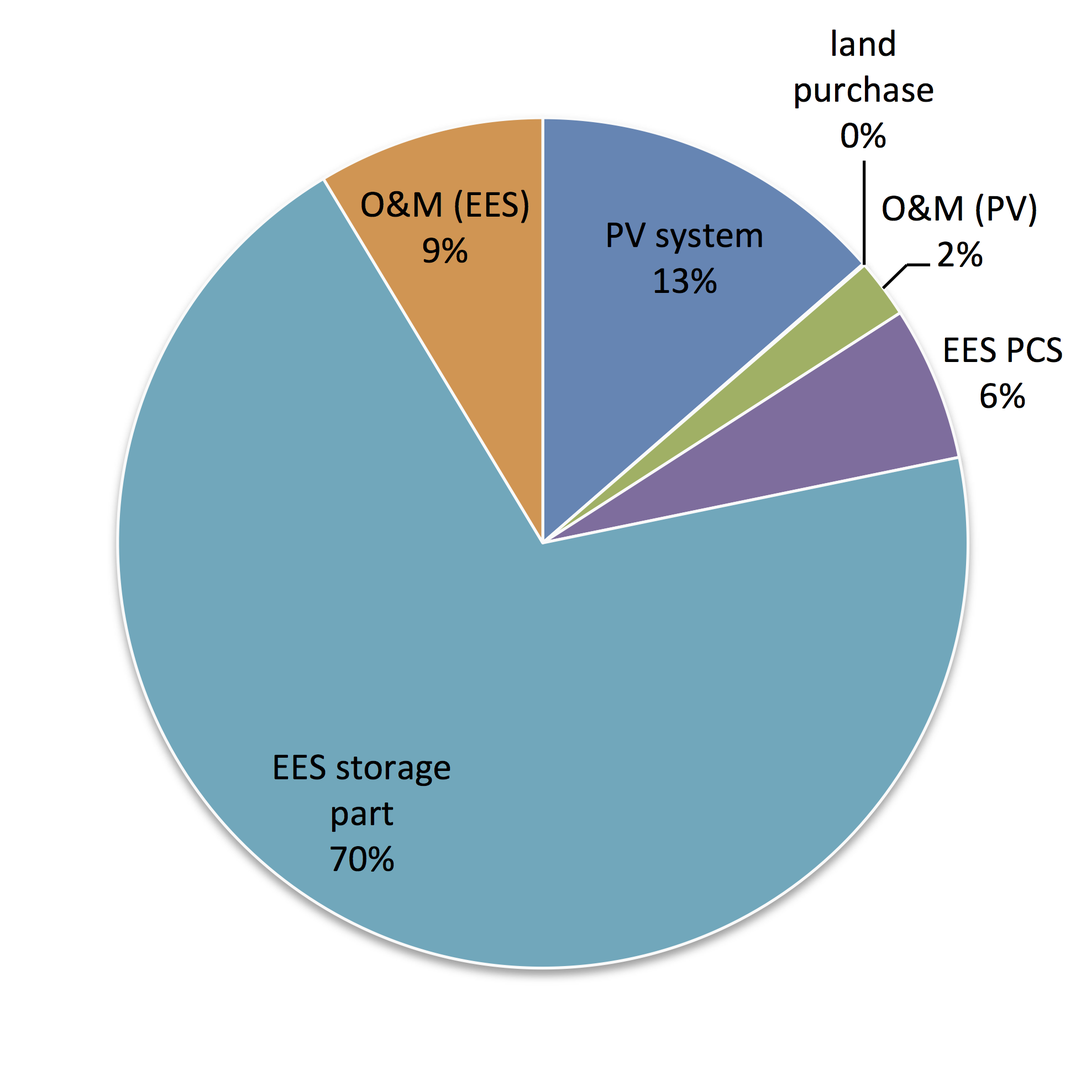
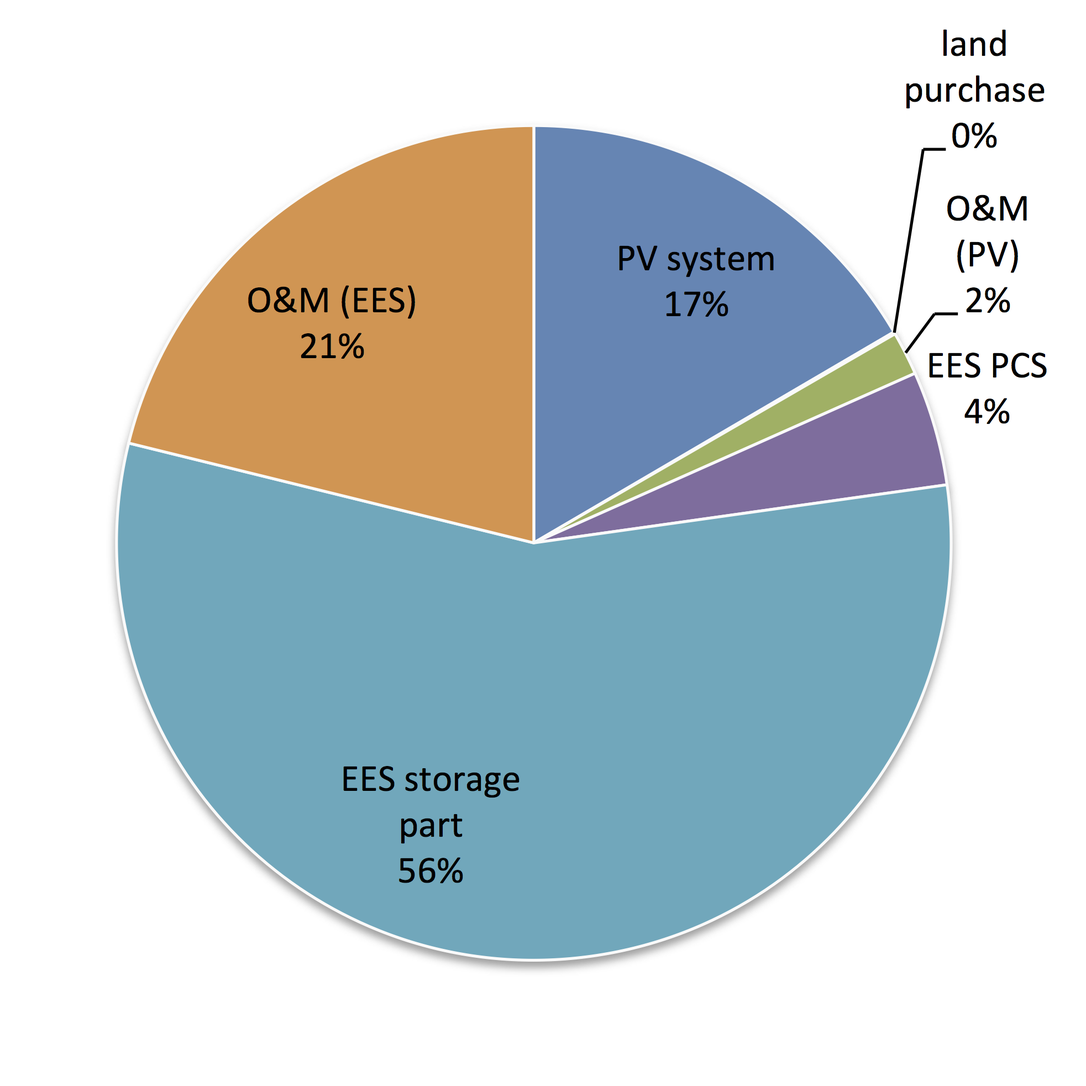
Zwischen sichern

Changed region(s): [[0.1242, 0.031, 0.9934, 0.9003], [0.2483, 0.683, 0.4967, 0.8071], [0.2173, 0.7761, 0.2483, 0.8071]]

diff --git a/PVsimulation.tex b/PVsimulation.tex
@@ -180,7 +180,7 @@ Further is to note that Li-Ion batteries has a expiry period \cite{Jossen2006}. 
 
 
 
-The for a long lifetime an average SOC of 30-70~\% is recommended for Li-Ion batteries \cite{Jossen2006}. Consequently the SOC was set to a maximum of 30~\% and a minimum of 70~\% for the simulation. So a total DOD of 40~\% which signified 40~\% of the nominal battery capacity was assumed as usable. In order to have high storage availability over the total system lifetime it was assumed that the battery bank will replaced at a effective capacity loss of 20~\%. This is also advised for EES in electronic consumer devices \cite{Spotnitz2003}. Resulting from this assumptions the cycle lifetime of the cells in the battery bank is 2~500 cycles. Therefore the battery bank needs to be replaced after 6-\SI{7}{years}. So the battery bank needs to be replaced three times in the total lifetime of the system. 
+The for a long lifetime an average SOC of \SIrange{30}{70}{\percent} is recommended for li-ion batteries \cite{Jossen2006}. Consequently the SOC was set to a maximum of \SI{30}{\percent} and a minimum of \SI{70}{\percent} for the simulation. So a total DOD of \SI{40}{\percent} which signified \SI{40}{\percent} of the nominal battery capacity was assumed as usable. In order to have high storage availability over the total system lifetime it was assumed that the battery bank will replaced at a effective capacity loss of \SIrange{20}{25}{\percent}. This is also advised for EES in electronic consumer devices \cite{Spotnitz2003}. Resulting from this assumptions the cycle lifetime of the cells in the battery bank is 2~500 to 3~200 cycles. Therefore the battery bank needs to be replaced after \SIrange{6}{9}{years}. So the battery bank needs to be replaced two to three times in the total lifetime of the system. For the calculation two battery bank replacements was assumed. 
 
 
 
@@ -218,19 +218,19 @@ The financial parameter for the LCOE calculation are composed in Table~\ref{tbl:
 
 The specific large-scale PV system costs in South Africa  amount to \SI{1.285}{USD/W}\textsubscript{p} (\SI{14.5}{ZAR/W}\textsubscript{p} using \SI{11.286}{USD/ZAR} average in 2014 \cite{IRS2015}) which leads from an in 2014 actually built PV system \cite{Terblanche2015}. These specific costs are close to utility-scale PV systems in Europe with specific investments of \SI{1}{EUR/W}\textsubscript{p} \cite{FraunhoferISE2013}, corresponding to \SI{1.33}{USD/W}\textsubscript{p} (using the average exchange rate in 2014 of \SI{1.33}{USD/EUR}  \cite{StatistaGmbH2015}).
 
-The LCOE was calculated with different interest rates and O\&M costs for the PV power plant and the EES system. The real interest rate for the PV power plant was amused with 2.8~\% \cite{FraunhoferISE2013} and the annual O\&M costs are 1~\%  of the PV investment costs \cite{IEA2014a}. A degradation of 1~\% per year of the annual energy output was assumed for the ageing phenomena of the PV cells \cite{Tidball2010}.
+The LCOE was calculated with different interest rates and O\&M costs for the PV power plant and the EES system. The annual O\&M costs for the PV system are \SI{1}{\percent}  of the PV investment costs \cite{IEA2014a}. A degradation of \SI{1}{\percent} per year of the annual energy output was assumed for the ageing phenomena of the PV cells \cite{Tidball2010}.
 
 The storage costs are calculates from three  parts. The costs for the PCS, the battery bank and the replacement costs of the battery bank during the lifetime of the system.
 
-The costs of the PCS of \SI{615}{USD/kW} (\SI{463}{EUR/kW} using the average exchange rate in 2014 of 1.33 USD/EUR \cite{StatistaGmbH2015}) was taken over from a study toward comparative life cycle cost analysis of EES \cite{Zakeri2015}. This is the average value of  a wide cost range (250-600€/kW) of PCS for Li-Ion EES systems.
+The costs of the PCS of \SI{615}{USD/kW} (\SI{463}{EUR/kW} using the average exchange rate in 2014 of 1.33 USD/EUR \cite{StatistaGmbH2015}) was taken over from a study toward comparative life cycle cost analysis of EES \cite{Zakeri2015}. This is the average value of  a wide cost range (250-600€/kW) of PCS for li-ion based EES systems.
 
 For the storage part of the EES a highly optimistic value of \SI{300}{USD/kWh} was assumed from \cite{Nykvist2015}. The average storage part cost for Li-Ion EES in other studies is \SI{914}{USD/kWh} \cite{Zakeri2015}.
 
-For the replacement costs of the an other highly optimistic value of \SI{150}{USD/kWh} was assumed. The cost for the replacement of the storage in \cite{Zakeri2015} are approximately the half of the storage costs. This costs was also assumed with a look to Figure~\ref{CostofLi-ion} on Page~\pageref{CostofLi-ion}.
+The cost for the replacement of the storage in \cite{Zakeri2015} are approximately the half of the storage costs. Therefore is the replacement costs decreasing not that intense and was assumed with \SI{250}{USD/kWh}.
 
 The assumed EES battery bank replacements during the lifetime was described in this Chapter already.
 
-The annual O\&M costs of \SI{9.18}{USD/kW} was also a adaption from \cite{Zakeri2015} as well as the real interest rate of 8.0~\%.
+The annual O\&M costs of \SI{3}{\percent} of the was adapted from the IEA. \cite{IEA2014c}
 
 As before for the other solar power plants also for the PV system was land purchase costs of 3~000USD/ha \cite{Cassell2012} assumed.
 \pagebreak
@@ -251,14 +251,14 @@ Sub-Station & $c_{ss}$ & 0.071 & USD/W\textsubscript{p} &\cite{Terblanche2015} \
 Total PV system costs & $c_{PV}$ & 1.285 &  USD/W\textsubscript{p} &\cite{Terblanche2015} \\ 
 Annual degradation factor &$f_{degrad}$ & 1 & \% & \cite{Tidball2010}\\ 
 Annual PV O\&M costs factor &$f_{O\&M,PV}$ & 1 & \% & \cite{IEA2014a}\\
-Interest rate of PV & $i_{PV}$& 2.8 & \% & \cite{FraunhoferISE2013} \\ 
+WACC rate & $i_{WACC}$ & 8.0 & \si{\percent} & assumption from Section~\ref{section WACC} \\ 
 Annual insurance costs & $f_{ins,PV}$ & 0.5 & \% & \cite{InternationalFinanceCorporation2015}\\ \hline
 EES PCS costs & $c_{EES,PCS}$ & 615 & USD/kW & \cite{Zakeri2015} \\ 
 EES battery bank costs & $c_{EES,BBC}$ &300 & USD/kWh & \cite{Nykvist2015} \\ 
-EES battery bank replacement costs & $c_{EES,BBRC}$ & 150 & USD/kWh & \cite{Zakeri2015} \\ 
-Assumed EES battery bank replacements during lifetime & $n_{BBR}$ & 3 & - & - \\ 
-Annual EES O\&M costs & $c_{O\&M,EES}$ & 9.18 & USD/kW & \cite{Zakeri2015}\\
-Interest rate of EES & $i_{EES}$& 8.0 & \% & \cite{Zakeri2015} \\
+EES battery bank replacement costs & $c_{EES,BBRC}$ & 250 & USD/kWh & assumption \\ 
+Assumed EES battery bank replacements during lifetime & $n_{BBR}$ & 2 & - & assumption \\ 
+Annual EES O\&M costs & $c_{O\&M,EES}$ & 3 & \% & \cite{IEA2014c}\\
+WACC rate & $i_{WACC}$ & 8.0 & \si{\percent} & assumption from Section~\ref{section WACC} \\ 
 Annual insurance costs& $f_{ins,EES}$ & 0.5 & \% & \cite{Cutter2014}\\ \hline
 Land purchase &$c_{LP}$ & 3~000.00 & USD/ha & \cite{Cassell2012} \\ 
 \hline
@@ -303,7 +303,7 @@ The LCOE was calculated taking into account of 1~\% annual degradation of the PV
 \textbf{Item} & \textbf{Value} & \textbf{Unit} \\ \hline \hline
 First year energy & 233.69 & GWh \\ 
 Load covering &  32.9 & \% \\ 
-LCOE result & 50.81 & USD/MWh \\
+LCOE result & 77.61 & USD/MWh \\
 \hline
 \end{tabular}
 \caption[Summary of the results of the simulated PV system without EES.]{Summary of the results of the simulated PV system without EES.}\label{tbl: PVwithoutEESresult}
@@ -359,7 +359,7 @@ The from the energy output derived load curve covering results of the simulated 
 \subsubsection{Levelized costs of electricity}
 The LCOE was calculated by using the finacial input parameter from Table~\ref{tbl: PVFinance} and a simplified method which is documented in Appendix~\ref{ChapterLCOE} on Page \pageref{ChapterLCOE}. It must be noted, that the calculation is based on the simulation result for the first year PV power plant results under consulting of a degradation factor for the PV system, but not for the EES. The results of the LCOE claculation for the simulated PV power plant configurations can be seen in Figure~\ref{PV_LCOE}. 
 
-The lowest LCOE result of \SI{251.83}{USD/MWh} is reached at a PVM of 2.2 and the lowest EES configuration and is marginal lower than  \SI{252.42}{USD/MWh} at a PVM of 2.4 with the same EES configuration. Generally must be said that there are no overlaps of LCOE lines in this chart and the spacing leads from the EES system costs.
+The lowest LCOE result of \SI{336.34}{USD/MWh} is reached at a PVM of 2.2 using the lowest simulated EES configuration and is marginal lower than  \SI{338.02}{USD/MWh} at a PVM of 2.4 with the same EES configuration. Generally must be said that there are no overlaps of LCOE lines in this chart and the spacing leads from the EES system costs.
 
 \begin{figure}[htbp]  
 \centering
@@ -383,7 +383,7 @@ The EES systems costs share makes the main part of the LCOE cost of the simulate
         \end{subfigure}
         \caption[Break-down of selected LCOE calculation  results of PV systems with adapted EES.]{Break-down of selected LCOE calculation results of PV systems with adapted EES.}\label{SMPV_LCOE_BreakDown}
 \end{figure}
-Comprising the results of the LCOE calculation and associated load curve covering results shows that for covering 90\% of the predicted load the configuration of PVM 2.8 and \SI{7}{h} of EES reaching the lowest LCOE of \SI{315.39}{USD/MWh}. But the configuration owns an high value of surplus output of about 5.5~\% (see Figure~\ref{PV_energy_output}). The configuration PVM 2.6 reaches also the 90~\% load curve covering with a share of just 2.1~\% surplus output and a LCOE of \SI{322.18}{USD/MWh}.
+Comprising the results of the LCOE calculation and associated load curve covering results shows that for covering 90\% of the predicted load the configuration of PVM 2.8 and \SI{7}{h} of EES reaching the lowest LCOE of \SI{417.57}{USD/MWh}. But the configuration owns an high value of surplus output of about 5.5~\% (see Figure~\ref{PV_energy_output}). The configuration PVM 2.6 reaches also the 90~\% load curve covering with a share of just 2.1~\% surplus output and a LCOE of \SI{425.75}{USD/MWh}.
 
-The lowest LCOE for reaching 80~\% of the prescribed load is \SI{275.18}{USD/MWh} using \SI{5}{h} of EES and also a PVM of 2.6. For reaching 70~\% the 2.2 and \SI{4}{h} of EES reaches the lowest LCOE of \SI{251.83}{USD/MWh}.
+The lowest LCOE for reaching 80~\% of the prescribed load is \SI{366.94}{USD/MWh} using \SI{5}{h} of EES and also a PVM of 2.6. For reaching 70~\% the 2.2 and \SI{4}{h} of EES reaches the lowest LCOE of \SI{336.34}{USD/MWh}.
 \pagebreak

diff --git a/CRsimulation.tex b/CRsimulation.tex
@@ -165,7 +165,7 @@ Storage volume  & \si{\cubed\metre} & 10~229 & 12~787 & 15~345 & 17~902 & 20~460
 \caption[CR system TES parameter.]{CR system TES parameter.}\label{tbl: CRTES}
 \end{table}
 
-SAM 2015.6.30 r3 don't have a power control to follow prescribed hourly net output values. The turbine output of each day needs to be scheduled in front for the simulation. Thereby the parasitic consumer needs highly attention. Figure~\ref{CR_turbineoutput} shows the for the simulation scheduled turbine output matrix. The individual values was fixed during experimental trial. It can be seen that the turbine output is reduced to 50\% during the night as it is specified in the scenario. The power plant follows the schedule till there is no solar irradiance and no more thermal capacity in the storage left to generate power. 
+SAM 2015.6.30 r3 don't have a power control to follow prescribed hourly net output values. The turbine output of each day needs to be scheduled in front for the simulation. Thereby the parasitic consumer needs highly attention. Figure~\ref{CR_turbineoutput} shows the for the simulation scheduled turbine output matrix. The individual values was fixed during experimental trial. It can be seen that the turbine output is reduced to \SI{50}{\percent} during the night as it is specified in the scenario. The power plant follows the schedule till there is no solar irradiance and no more thermal capacity in the storage left to generate power. 
 \begin{figure}[htbp]  
 \centering
 \includegraphics[width=0.95\linewidth]{FIG/CR_turbineoutput}
@@ -173,7 +173,7 @@ SAM 2015.6.30 r3 don't have a power control to follow prescribed hourly net outp
 \end{figure}
 \pagebreak
 \subsubsection{Financial parameter}
-The financial parameter for the LCOE calculation of the CR power plant are seperated in different specific cost parts and are sumerized in Table~\ref{tbl: CRFinance}. The method for calculating the LCOE is documented in Appendix~\ref{ChapterLCOE} on Page \pageref{ChapterLCOE} using a lifetime of \SI{25}{years} and a real interest rate of 7.5~\% \cite{FraunhoferISE2013}. The interest rate could be reduced with a rising market potential.
+The financial parameter for the LCOE calculation of the CR power plant are seperated in different specific cost parts and are sumerized in Table~\ref{tbl: CRFinance}. The method for calculating the LCOE is documented in Appendix~\ref{ChapterLCOE} on Page \pageref{ChapterLCOE} using a lifetime of \SI{25}{years}.
 
 
 
@@ -185,9 +185,9 @@ The remaining investment costs are based on the "Power Tower Technology Roadmap 
 
 On top of the investment costs a came 15 \% once-off surcharge for EPC and contingencies \cite{Platzer2014}.
 
-Fichtner analyzed the annual O\&M costs with 1.84-1.96~\% of the total investment costs for CR power plants in SA \cite{Fichtner2010}. The value of 2~\% can so also be assumed as conservative.
+Fichtner analyzed the annual O\&M costs with 1.84-1.96~\% of the total investment costs for CR power plants in SA \cite{Fichtner2010}. The value of \SI{2}{\percent} can so also be assumed as conservative.
 
-The costs for the land purchase comes from the "African Agriculture Review" report of the Nedbank Capital, which reported the prices for farmland in SA. For the LCOE calculation of the CSP and PV system was the land purchase costs of 3~\SI{000}{USD/ha} assumed which is based on these report \cite{Cassell2012}.
+The costs for the land purchase comes from the "African Agriculture Review" report of the Nedbank Capital, which reported the prices for farmland in SA. For the LCOE calculation of the CSP and PV system was the land purchase costs of \SI{3000}{USD/ha} assumed which is based on these report \cite{Cassell2012}.
 
 \begin{table}[!h]  
   \centering
@@ -201,7 +201,7 @@ Tower and receiver& $c_{T+R}$& 200 & \si{\usd\per\kilo\wattth} & \cite{Kolb2011}
 Annual O\&M & $f_{O\&M,CR}$ & 2 & \si{\percent} &\cite{Fichtner2010}\\
 Land purchase& $c_{LP}$ & 3~000 & \si{\usd\per\hectare} & \cite{Cassell2012}\\ \hline
 Lifetime & $n$ & 25 & years & \cite{FraunhoferISE2013} \\ 
-Interest rate & $i_{CR}$ & 7.5 & \si{\percent} & \cite{FraunhoferISE2013} \\ 
+WACC rate & $i_{WACC}$ & 8.0 & \si{\percent} & assumption from Section~\ref{section WACC} \\ 
 Annual insurance costs& $f_{ins,CR}$ & 0.5 & \si{\percent} & \cite{IRENA2012}\\
 Surcharge for EPC, project management and risk & $f_{EPC,CR}$& 15 & \si{\percent} & \cite{Platzer2014} \\
 Total plant availability & $f_{avail,plant,CR}$ & 96 & \si{\percent} & \cite{Morin2012} \\ 
@@ -267,16 +267,18 @@ Figure~\ref{CR_LCCF} summarizes the results of the load curve covering for all s
 \includegraphics[width=1\linewidth]{FIG/CR_LCCF}
 \caption[Load curve covering result of simulated CR systems.]{Load curve covering result of simulated CR systems.}\label{CR_LCCF}
 \end{figure}
-The results of the load curve covering shows that there is no appreciable difference between the 12, 14 and \SI{16}{h} of TES. At a SM of 3.5 the difference is just 1.4~\% load curve covering between 12 and \SI{16}{h} of TES. There is just a addition of 0.6~\% for the \SI{8}{h} TES and the SM 3.0 to 3.5 configurations. 
+The results of the load curve covering shows that there is no appreciable difference between the \SIlist{12;14;16}{h} of TES. At a SM of 3.5 the difference is just \SI{1.4}{\percent} load curve covering between \SIlist{12;16}{h} of TES. There is just a addition of \SI{0.6}{\percent} for the \SI{8}{h} TES and the SM 3.0 to 3.5 configurations.
+ 
 \subsubsection{Levelized costs of electricity}
-The results of the LCOE claculation for the simulated CR configurations can be seen in Figure~\ref{CR_LCOE}. They are calculated using the finacial input parameter in Table~\ref{tbl: CRFinance} and a simplified method which is documented in Appendix~\ref{ChapterLCOE} on Page \pageref{ChapterLCOE}.
+The results of the calculation shows that the lowest LCOE of \SI{142.31}{USD/MWh} is reached at a SM of 2.0 and \SI{10}{h} of TES and is just  marginal cheaper then using \SI{8}{h} of TES with a LCOE of \SI{143.04}{USD/MWh}. The LCOE addition from SM 2.0 to 2.5 is goes minimal up to \SI{138.25}{USD/MWh} for \SI{10}{h} of TES. The highest LCOE result of the simulated configurations is \SI{185.20}{USD/MWh} at a SM of 3.5 and \SI{8}{h} of TES. 
 
 \begin{figure}[htbp]  
 \centering
 \includegraphics[width=1\linewidth]{FIG/CR_LCOE}
 \caption[LCOE calculation results for CR simulation.]{LCOE calculation results for CR simulation.}\label{CR_LCOE}
 \end{figure}
-The results of the calculation shows that the lowest LCOE of \SI{137.55}{USD/MWh} is reached at a SM of 2.0 and \SI{10}{h} of TES and is just  marginal cheaper then using \SI{8}{h} of TES with a LCOE of \SI{137.63}{USD/MWh}. The LCOE addition from SM 2.0 to 2.5 is goes minimal up to \SI{138.25}{USD/MWh} for \SI{10}{h} of TES. The highest LCOE result of the simulated configurations is \SI{179.00}{USD/MWh} at a SM of 3.5 and \SI{8}{h} of TES. 
+
+The results of the LCOE claculation for the simulated CR configurations can be seen in Figure~\ref{CR_LCOE}. They are calculated using the finacial input parameter in Table~\ref{tbl: CRFinance} and a simplified method which is documented in Appendix~\ref{ChapterLCOE} on Page \pageref{ChapterLCOE}. 
 
 The behavior of the 12, 14 and \SI{16}{h} of TES results for all SM of the LCOE is almost identical. Just the individual value is differently.
 
@@ -297,8 +299,8 @@ The behavior of the 12, 14 and \SI{16}{h} of TES results for all SM of the LCOE 
 \end{figure}
 The calculated LCOEs of the simulated CR power plants is composed by seven cost parts. The investment costs of power block, tower and receiver, heliostat field, land purchase, TES, additional EPC, project management (PM) and risk as well as the annual costs for operation and maintain (O\&M). The brake-down of the LCOE components can be seen in Figure~\ref{CR_LCOE_BreakDown} for the simulation of the lowest and the highest configuration.  It can be seen that the investment costs of the land purchase don't have any influence to the LCOE of the simulated CR configurations. Also the share of the EPC, PM and risk as well as the share of O\&M don't varies much.
 
-When comprising the results of the load curve covering with the LCOE calculation the lowest LCOE for reaching the target of 90~\% is the configuration of a SM of 3.0 and \SI{14}{h} of TES. The LCOE for these configuration is \SI{149.58}{USD/MWh}. 
+When comprising the results of the load curve covering with the LCOE calculation the lowest LCOE for reaching the target of 90~\% is the configuration of a SM of 3.0 and \SI{14}{h} of TES. The LCOE for these configuration is \SI{154.75}{USD/MWh}. 
 
-For reaching 80~\% of the prescribed load curve the lowest LCOE is \SI{138.25}{USD/MWh} using a SM of 2.5 and \SI{10}{h} of TES. The lowest LCOE for covering 70~\% of the prescribed load curve is also the lowest LCOE of all and is mentioned above.
+For reaching 80~\% of the prescribed load curve the lowest LCOE is \SI{143.04}{USD/MWh} using a SM of 2.5 and \SI{10}{h} of TES. The lowest LCOE for covering 70~\% of the prescribed load curve is also the lowest LCOE of all and is mentioned above.
 
 \pagebreak

diff --git a/PTCsimulation.tex b/PTCsimulation.tex
@@ -159,11 +159,11 @@ Also for the simulation of the PTC system the dispatch control of the turbine ou
 \caption[TES dispatch control matrix for turbine output fraction of PTC simulation in SAM.]{TES dispatch control matrix for turbine output fraction of PTC simulation in SAM.}\label{PTC_turbineoutput}
 \end{figure}
 \subsubsection{Financial parameter}
-The financial parameter for calculating the LCOE of the simulated configuration are shown in Table~\ref{tbl: PTCFinance}. As before at the CR is the PTC power plant calculated over a lifetime of \SI{25}{years} using a real interest rate of 7.5~\% \cite{FraunhoferISE2013}. Also the total plant availability of  15~\% once-off surcharge for EPC and contingencies on the total investment costs are equal to the CR \cite{Platzer2014}.
+The financial parameter for calculating the LCOE of the simulated configuration are shown in Table~\ref{tbl: PTCFinance}. As before at the CR is the PTC power plant calculated over a lifetime of \SI{25}{years}. Also the total plant availability of  15~\% once-off surcharge for EPC and contingencies on the total investment costs are equal to the CR \cite{Platzer2014}.
 
 
 
-The specific costs for the collector field inclusive HTF-system is assumed with \SI{275}{\usd\per\square\metre} from \cite{Morin2012}. These specific cost could also be reduced by 25~\% by using the assumed cost reduction from Flabeg \cite{FLABEG_FE_GmbH2015}. So the for the simulation assumed costs are highly conservative.
+The specific costs for the collector field inclusive HTF-system is assumed with \SI{210}{\usd\per\square\metre}. The assuption is based on the cost calculation study which received specific costs values from 2010 of \SI{275}{\usd\per\square\metre}\cite{Morin2012}. These specific cost was be reduced by \SI{25}{\percent} by using the assumed cost reduction from Flabeg  \cite{FLABEG_FE_GmbH2015}.
 
 
 The specific costs for the power block are the same as at the CR but from other sources \cite{Platzer2014}. 
@@ -178,14 +178,14 @@ The costs for the land purchase comes from the "African Agriculture Review" repo
 	\begin{tabular}{  p{5.0cm} C{2.0cm} C{1.5cm}  C{1.5cm}  C{4.0cm} } 
 	\hline	
 \textbf{Item} & \textbf{Symbol}& \textbf{Value} & \textbf{Unit} & \textbf{Source}\\ \hline \hline
-Collector field/HTF-system & $c_{CF}$ & 275 & \si{\usd\per\square\metre} & \cite{Morin2012}\\ 
+Collector field/HTF-system & $c_{CF}$ & 210 & \si{\usd\per\square\metre} & \cite{Morin2012,FLABEG_FE_GmbH2015}\\ 
 Power block &$c_{PB,PTC}$ & 1000 & \si{\usd\per\kilo\wattel} & \cite{Platzer2014}\\ 
 Thermal energy storage & $c_{TES,PTC}$ & 50 & \si{\usd\per\kilo\wattth\hour} & \cite{Platzer2014}\\ 
 Land purchase & $c_{LP}$ & 3~000 & \si{\usd\per\hectare} & \cite{Cassell2012} \\ 
 Annual O\&M & $f_{O\&M,PTC}$ & 2 & \si{\percent} &\cite{Fichtner2010}\\ 
 \hline
 Lifetime&$n$ & 25 & \si{\year} & \cite{FraunhoferISE2013} \\ 
-Interest rate& $i_{PTC}$& 7.5 & \si{\percent} & \cite{FraunhoferISE2013} \\ 
+WACC rate & $i_{WACC}$ & 8.0 & \si{\percent} & assumption from Section~\ref{section WACC} \\ 
 Annual insurance costs& $f_{ins,PTC}$ & 0.5 & \si{\percent} & \cite{IRENA2012}\\
 Surcharge for EPC, project management and risk & $f_{EPC,PTC}$ & 15 & \si{\percent} & \cite{Platzer2014} \\
 Total plant availability &$f_{avail,plant,PTC}$ & 96 & \si{\percent} & \cite{Morin2012} \\ 
@@ -280,7 +280,7 @@ The target of 90~\% load covering is just reached by a SM of 5.0 and more then \
 \subsubsection{Levelized costs of electricity}
 For the calculated LCOE the finacial input parameter in Table~\ref{tbl: PTCFinance} and a simplified method which is documented in Appendix~\ref{ChapterLCOE} on Page \pageref{ChapterLCOE} was used. These results of the LCOE claculation for the simulated PTC configurations can be seen in Figure~\ref{PTC_LCOE}. 
 
-The lowest LCOE result of the simulated PTC power plants is \SI{161.69}{USD/MWh} at a SM of 2.5 and \SI{8}{h} of TES. The \SI{10}{h} TES has marginal higher result using a SM of 3.0 (\SI{162.00}{USD/MWh}) and 2.5 (\SI{162.35}{USD/MWh}). The highest LCOE result of \SI{216.63}{USD/MWh} was reached at a SM of 2.0 and \SI{16}{h} of TES. 
+The lowest LCOE result of the simulated PTC power plants is \SI{144.91}{USD/MWh} at a SM of 3.0 and \SI{10}{h} of TES. The \SI{8}{h} TES at a SM of 2.5 has marginal higher result of (\SI{145.17}{USD/MWh}). The highest LCOE result of \SI{202.95}{USD/MWh} was reached at a SM of 2.0 and \SI{16}{h} of TES. 
 
 Depending from almost identical load curve covering is the behavior of LCOE results of the simulated TES variations 12, 14 and \SI{16}{h} almost identical. The difference in the height of the charts results from the higher investment cost of the larger storage configuration.
 
@@ -291,9 +291,9 @@ Depending from almost identical load curve covering is the behavior of LCOE resu
 \end{figure}
 The calculated annual LCOE's of the simulated PTC power plants are composed by six cost parts, namely the investment costs of the collector field, TES, power block, land purchase and additional EPC, project management (PM) and risk as well as the annual operation and maintenance (O\&M) costs. The share of the annual LCOE for the selected PTC power plants can be seen in Figure~\ref{PTC_LCOE_BreakDown}. The share of the land purchase is almost irrelevant for the LCOE. 
 
-When comprising the load curve covering results and the LCOE calculation results of the simulated PTC power plants, the lowest LCOE for reaching the target of 90~\% load curve covering is \SI{192.15}{USD/MWh} at a SM of 5.0 and \SI{16}{h} of TES. 
+When comprising the load curve covering results and the LCOE calculation results of the simulated PTC power plants, the lowest LCOE for reaching the target of 90~\% load curve covering is \SI{167.45}{USD/MWh} at a SM of 5.0 and \SI{12}{h} of TES. 
 
-For reaching a covering of 80~\% of the load curve the PTC configuration with a SM of 3.5 and \SI{12}{h} of TES has the lowest LCOE with \SI{170.32}{USD/MWh}. The lowest LCOE for reaching 70~\% of the prescribed load curve is \SI{162.00}{USD/MWh} at a SM of 3.0 and \SI{10}{h} of TES.
+For reaching a covering of 80~\% of the load curve the PTC configuration with a SM of 3.5 and \SI{12}{h} of TES has the lowest LCOE with \SI{151.84}{USD/MWh}. The lowest LCOE for reaching 70~\% of the prescribed load curve is \SI{144.91}{USD/MWh} at a SM of 3.0 and \SI{10}{h} of TES.
 \begin{figure}[!htbp]
         \centering                
         \begin{subfigure}[b]{0.5\textwidth}

diff --git a/large_scale_solar_plants.tex b/large_scale_solar_plants.tex
@@ -241,7 +241,7 @@ The spread of total capital costs of the different EES technologies can be seen 
 \includegraphics[width=0.65\linewidth]{FIG/TCC_EES}
 \caption[Total capital cost in EUR of large-scale EES systems per unit of nominal power rating including costs of power electronics, storage part, fixed obtain and maintainence and maybe incidental replacement costs.]{Total capital cost in EUR of large-scale EES systems per unit of nominal power rating including costs of power electronics, storage part, fixed obtain and maintainence and maybe incidental replacement costs \cite{Zakeri2015}.}\label{TCC_EES}
 \end{figure}
-\section{Impact of cost of capital on the levelised cost of solar power}
+\section{Impact of cost of capital on the levelised cost of solar power} \label{section WACC}
 Most low-carbon technologies in the power sector, specially solar and wind powered renewable, incur the main part of there cost up-front. They are costly to build but, thanks to cost free renewable source, comparative inexpensive to operate.
 
 The weighted average cost of capital (WACC), which is a mix of the  rate of return on capital and the interest rate for dept, at which the necessary capital and dept can be obtained is a crucial factor shaping the delivered cost of energy from solar technologies. The lower the WACC, the less expansive is energy from solar resources. In turn, factors that increase the WACC drive up the LCOE. In the case of an exemplary PV system, if the WACC exceeds \SI{9}{\percent}, finacing costs begin to dominate the LCOE of PV electricity (see Figure~\ref{WACC}). 
@@ -255,7 +255,7 @@ Several factors influence the cost of financing. For technically mature technolo
 
 The International Energy Agency calculates there LCOE for solar power applications (CSP and PV systems) with a WACC of \SI{8}{\percent} \cite{IEA2014c}. This also can be assumed for a EES application \cite{Zakeri2015}.
 
-As it was said, the WACC depends from the regional marked. For SA the WACC varied in 2013 from \SIrange{7.93}{8.89}{\percent} for onshore wind applications \cite{IEA2015}. For the subsequently simulation is therefore a WACC of \SI{8}{\percent} for all solar power plants assumed.
+As it was said, the WACC depends from the regional marked. For SA the WACC varied in 2013 from \SIrange{7.93}{8.89}{\percent} for onshore wind applications \cite{IEA2015}. For the subsequently simulation is a WACC of \SI{8}{\percent} for all solar power plants assumed.
 
 \pagebreak
 \section{General assumptions for a simulation-based comparison of large-scale solar power plants}
